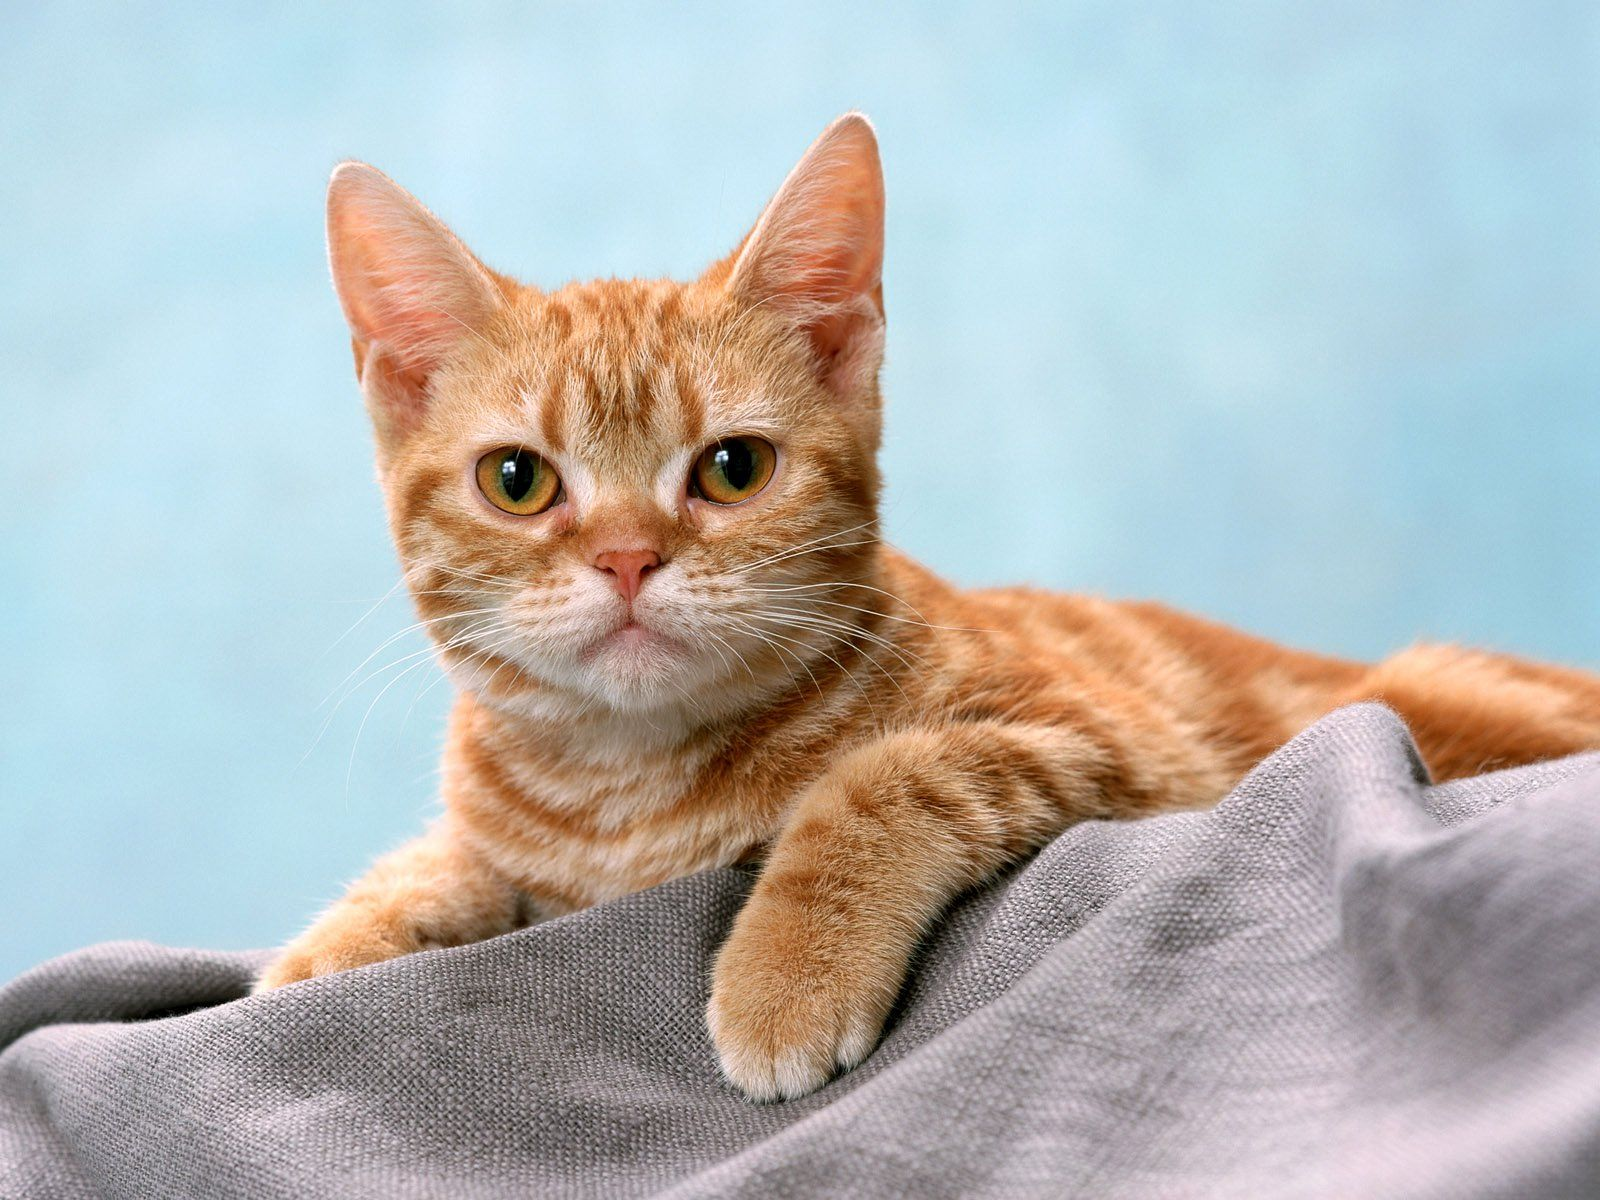
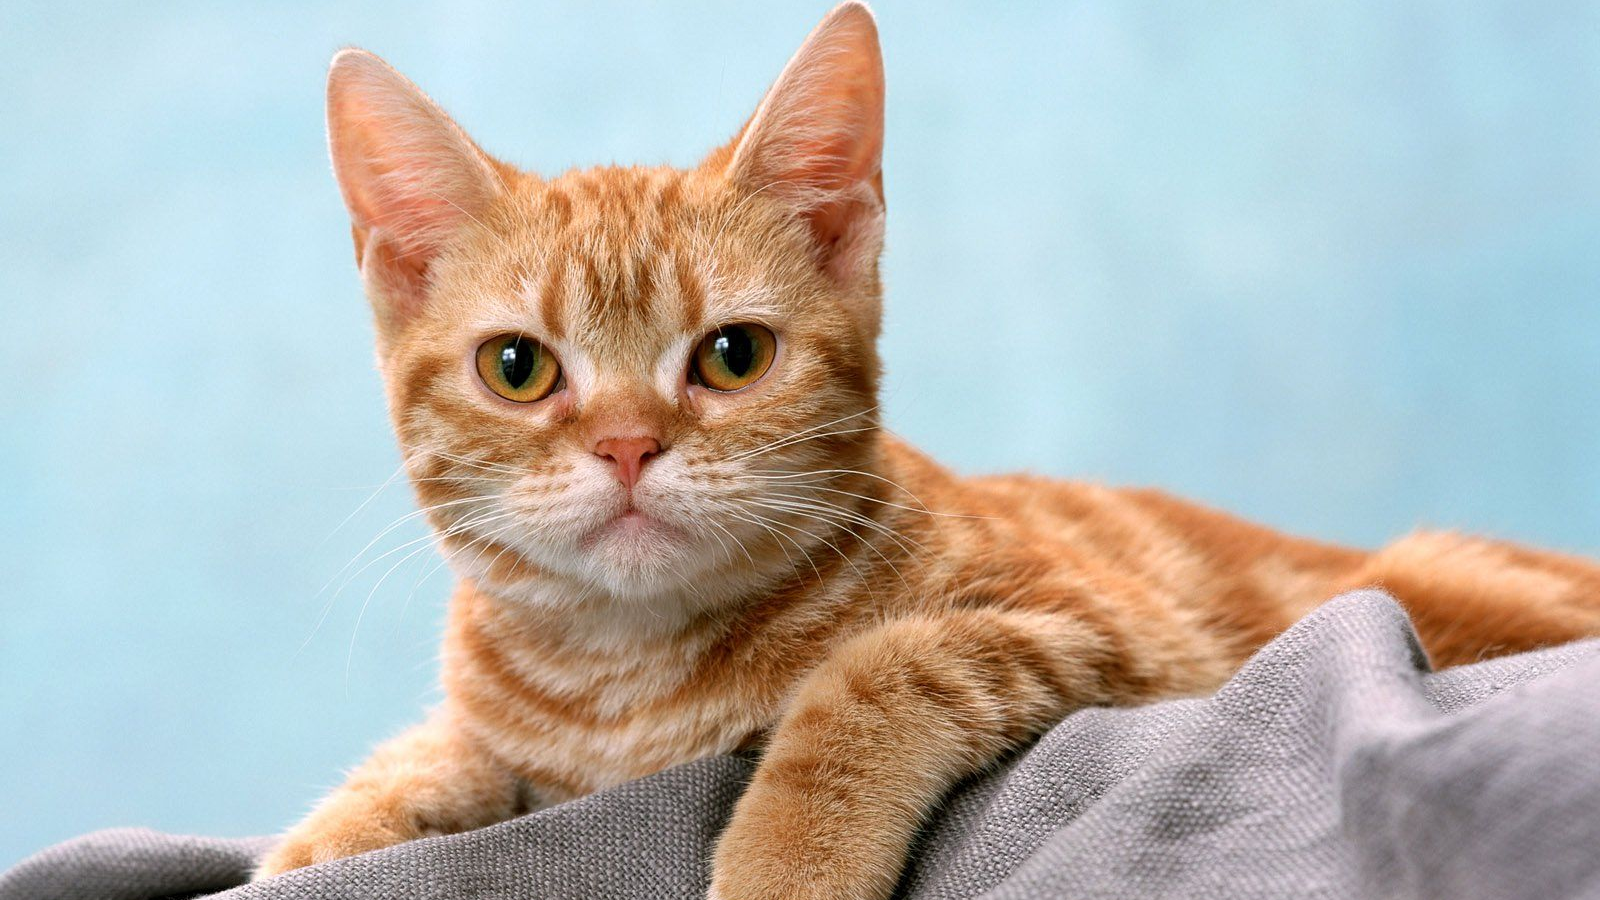
Se agregaron los estilos e imagenes

diff --git a/css/style.css b/css/style.css
@@ -1,0 +1,8 @@
+.card img {
+	max-height: 250px;
+	object-fit: cover;
+}
+#animales {
+	gap: 20px;
+	box-sizing: border-box;
+}
